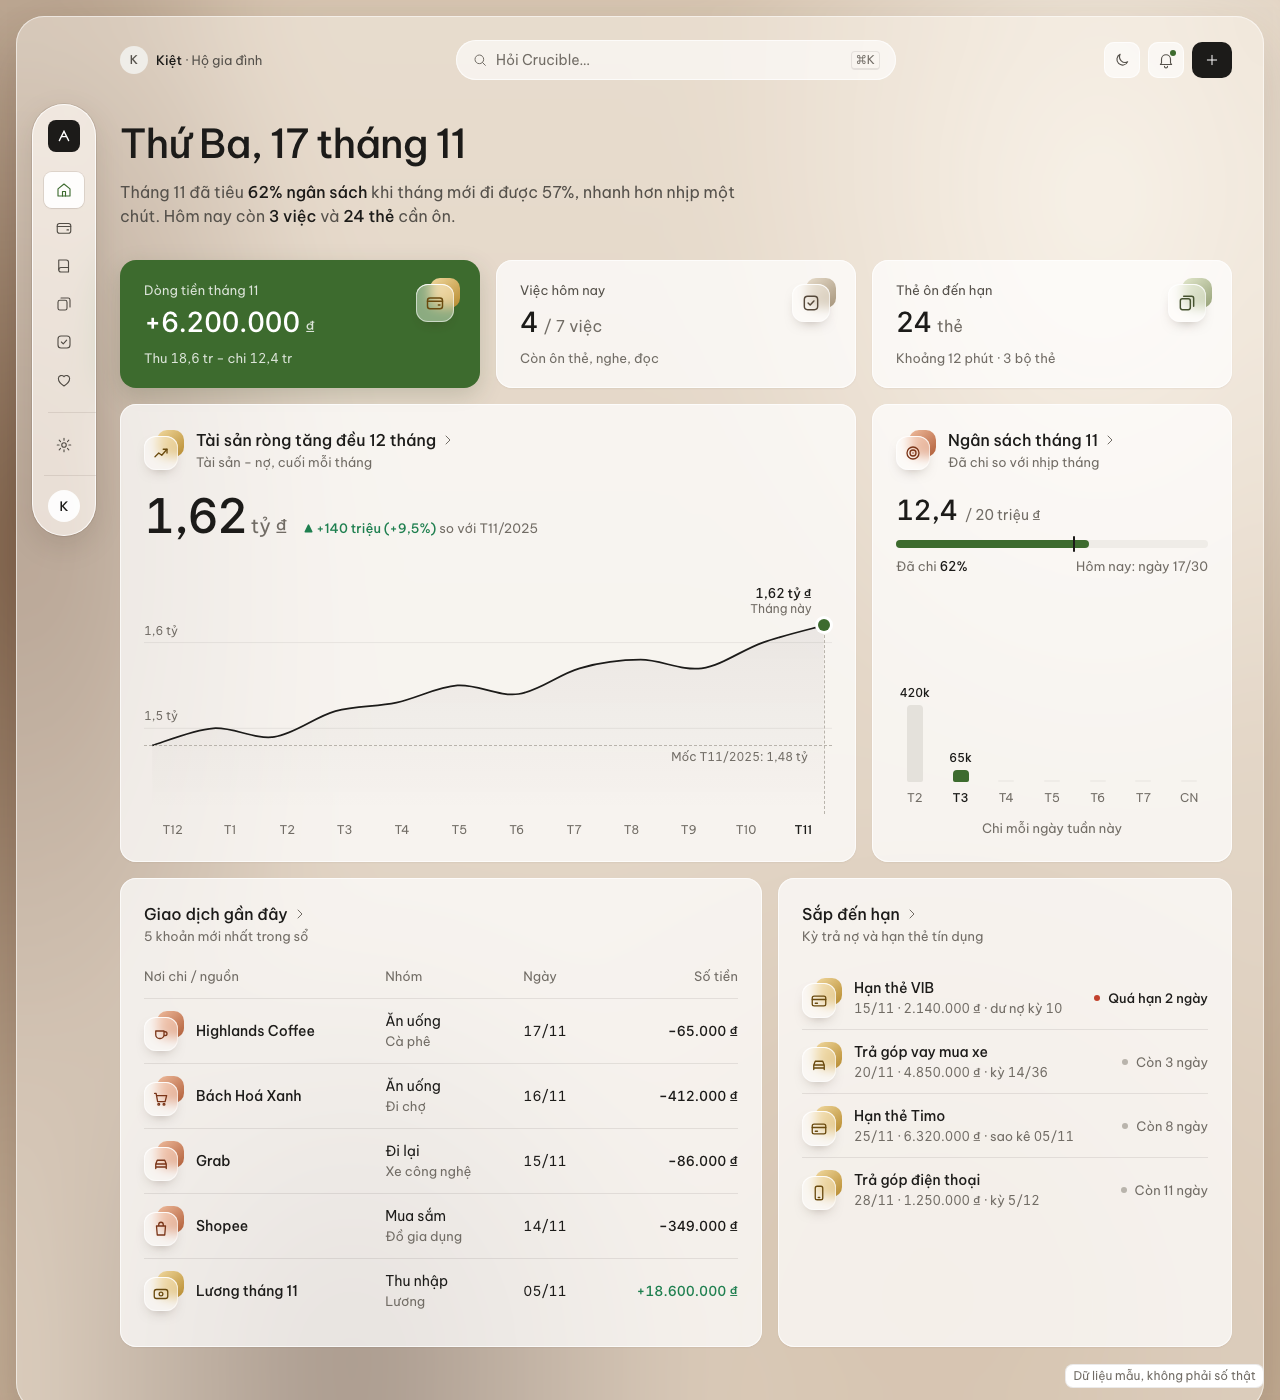
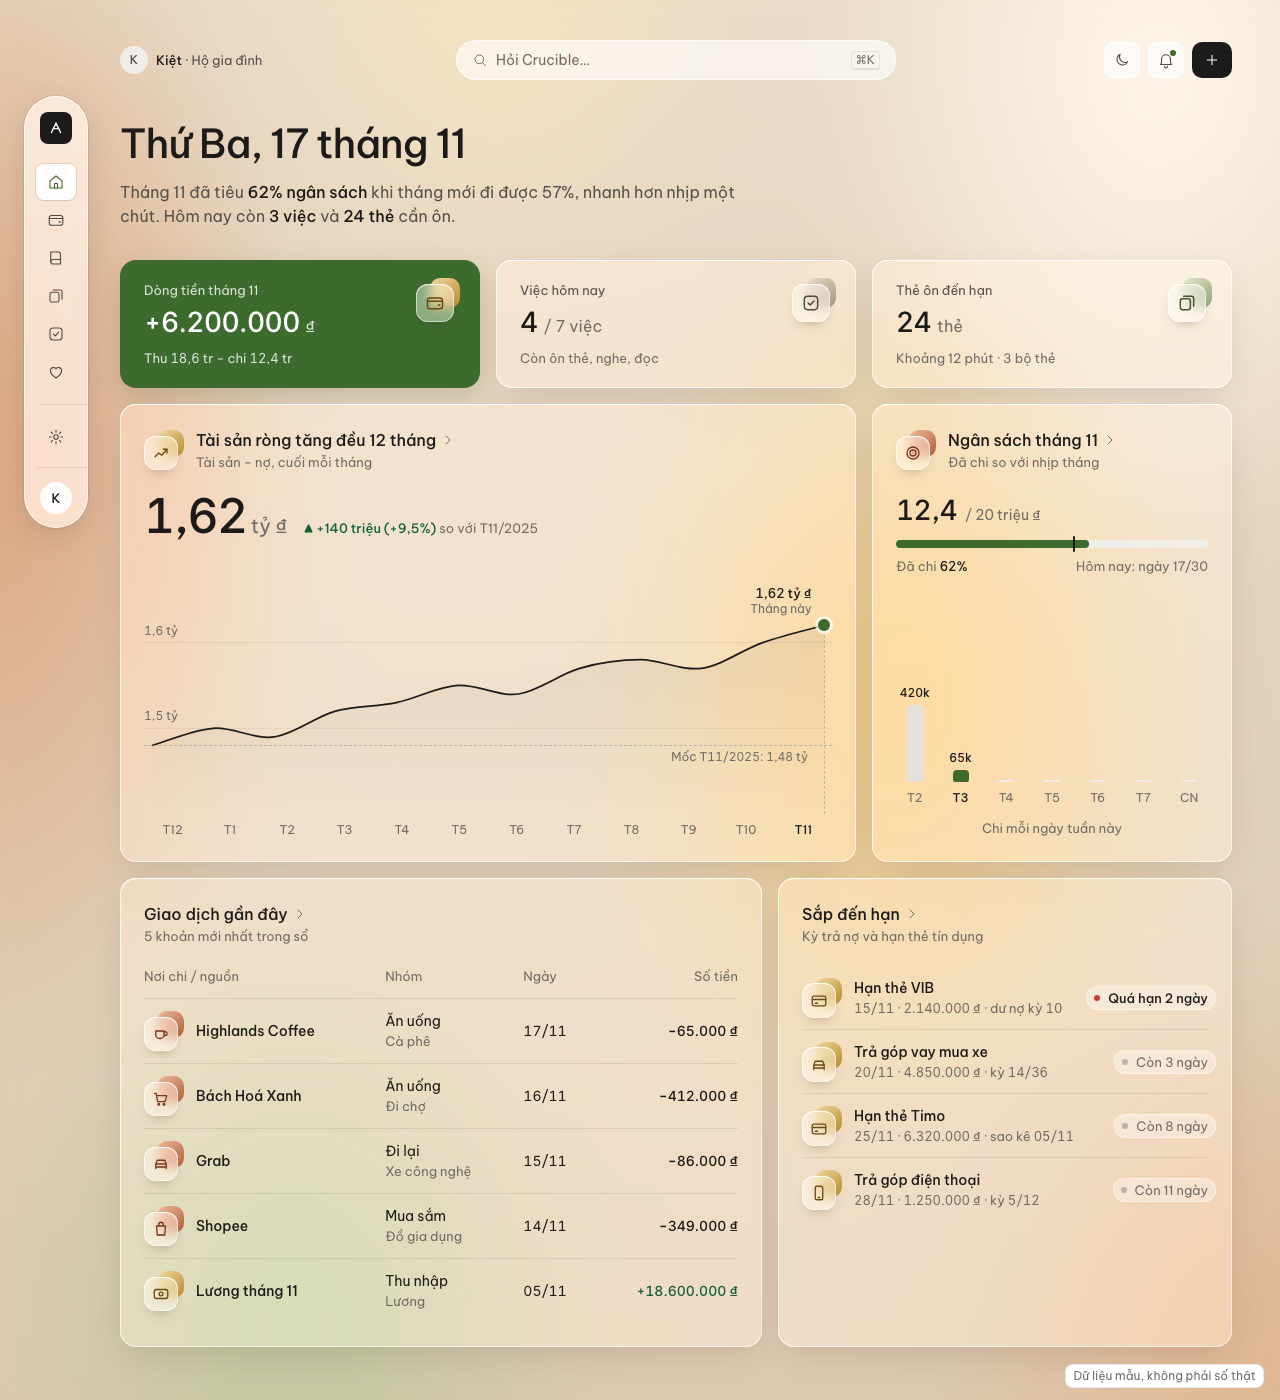
Demo giao diện sạch: bỏ cửa sổ kính bao ngoài, thẻ thành kính trong một lớp (trắng 35%, blur ở ::before), khối con là tint phẳng, nền thêm quầng đất/mật ong/rêu (dữ liệu mẫu)

diff --git a/1991-new-design/demo/clean/demo.html b/1991-new-design/demo/clean/demo.html
@@ -91,7 +91,7 @@ svg{display:block}
 
 :root{--main-l:100px}
 body.pinned{--main-l:284px}
-.main{padding:24px 32px 64px var(--main-l);min-width:0;max-width:1600px}
+.main{padding:40px 48px 64px var(--main-l);min-width:0;max-width:1600px}
 /* Thanh trên: ngữ cảnh trái · ô hỏi giữa · nút tròn phải */
 .top{display:grid;grid-template-columns:1fr minmax(280px,440px) 1fr;align-items:center;gap:16px;height:40px;margin-bottom:40px}
 .ctx{display:flex;align-items:center;gap:8px;font-size:13px;color:var(--ink2);white-space:nowrap}
@@ -300,41 +300,72 @@ td .s{color:var(--muted);font-size:13px}
 
 
 /* =====================================================================
-   NỀN KÍNH (mặc định duy nhất): cả ứng dụng là MỘT cửa sổ kính mờ trên gradient ấm trung tính.
-   backdrop-filter chỉ ở ::before (cửa sổ, rail, dải tab). Thẻ là kính sáng ĐỤC,
-   không tự làm mờ — đủ để chữ ≥ 4.5:1 cả khi phông sáng nhất phía sau.
+   NỀN KÍNH, MỘT LỚP: không còn cửa sổ bao ngoài. Gradient ấm trải toàn màn;
+   sidebar, thanh trên, dải tab và thẻ đều nằm THẲNG trên nền. Mỗi thẻ là một
+   tấm kính trong (trắng --card-a, làm mờ ở ::before). Khối con bên trong thẻ
+   (ô mini, viên trạng thái, chip, hàng) chỉ là tint trắng phẳng, KHÔNG blur.
+   Nền cần quầng đất / mật ong / rêu để thấy được độ trong.
    ===================================================================== */
-html{--rail-x:32px;--rail-y:104px;--muted:#635E57}
-html body{--main-l:104px}
-html body.pinned{--main-l:288px}
-html,html body{background:#CDBBA6}
+html{--rail-x:24px;--rail-y:96px;--muted:#5A554E;--card-a:.35;--card-fill:rgba(255,255,255,var(--card-a));--tint:rgba(255,255,255,.34);
+  --bar:rgba(70,50,30,.20); --bar2:rgba(70,50,30,.11); --dash:#85796C}
+html body{--main-l:120px}
+html body.pinned{--main-l:304px}
+html,html body{background:#DCC9B1}
 /* Chỗ đặt ảnh nội thất thật (chủ dự án cung cấp): .scene{background:url(/scene/noi-that.jpg) center/cover}
-   Tạm dựng bằng gradient ấm trung tính, làm mờ — không tím, không xanh. */
-html .scene{display:block;position:fixed;inset:-80px;z-index:0;filter:blur(36px);
+   Tạm dựng bằng gradient ấm làm mờ: đất nung, mật ong, rêu nhạt — không phong cảnh, không tím/xanh dương. */
+html .scene{display:block;position:fixed;inset:-80px;z-index:0;filter:blur(40px);
   background:
-   radial-gradient(40% 55% at 82% 18%,#F6EEE3 0%,transparent 70%),
-   radial-gradient(30% 70% at 8% 40%,#7A5C45 0%,transparent 72%),
-   radial-gradient(35% 40% at 30% 92%,#5E4636 0%,transparent 70%),
-   radial-gradient(45% 45% at 70% 88%,#B4977A 0%,transparent 70%),
-   linear-gradient(180deg,#D8C7B3,#C4AE96)}
-html .win{position:relative;z-index:1;margin:16px;min-height:calc(100vh - 32px);border-radius:28px}
-html .win::before{content:"";position:absolute;inset:0;border-radius:inherit;z-index:-1;
-  background:rgba(250,246,240,.46);-webkit-backdrop-filter:blur(28px) saturate(1.05);backdrop-filter:blur(28px) saturate(1.05);
-  box-shadow:inset 0 0 0 1px rgba(255,255,255,.55),0 24px 64px rgba(60,40,25,.18)}
-html .card{background:rgba(255,255,255,.72);box-shadow:inset 0 0 0 1px rgba(255,255,255,.7),0 1px 2px rgba(60,40,25,.06)}
-html a.card:hover{background:rgba(255,255,255,.84)}
+   radial-gradient(34% 44% at 86% 10%,#FFF7EA 0%,transparent 70%),
+   radial-gradient(30% 42% at 68% 50%,#F0C987 0%,transparent 70%),
+   radial-gradient(32% 55% at 4% 34%,#DBA27C 0%,transparent 72%),
+   radial-gradient(30% 36% at 26% 90%,#BEC79F 0%,transparent 70%),
+   radial-gradient(34% 36% at 94% 92%,#E0B591 0%,transparent 70%),
+   radial-gradient(26% 30% at 40% 4%,#F5E2BF 0%,transparent 70%),
+   linear-gradient(180deg,#EADCC8,#DCC8AE)}
+html .win{position:relative;z-index:1;min-height:100vh}
+/* Thẻ = kính trong, một lớp. ::before giữ blur + viền sáng + bóng mềm. */
+html .card{background:transparent;box-shadow:none;isolation:isolate}
+html .card::before{content:"";position:absolute;inset:0;border-radius:inherit;z-index:-1;pointer-events:none;
+  background:var(--card-fill);-webkit-backdrop-filter:blur(22px) saturate(1.45);backdrop-filter:blur(22px) saturate(1.45);
+  box-shadow:inset 0 0 0 1px rgba(255,255,255,.7),inset 0 1px 0 rgba(255,255,255,.85),0 12px 36px -8px rgba(60,40,25,.16);
+  transition:background-color 200ms var(--ease)}
+html a.card:hover{background:transparent;box-shadow:none}
+html a.card:hover::before{background:rgba(255,255,255,calc(var(--card-a) + .1))}
 html .search,html .round:not(.btn){background:rgba(255,255,255,.62);box-shadow:inset 0 0 0 1px rgba(255,255,255,.7)}
+/* Khối con trong thẻ: tint phẳng */
+html .mini>div{background:var(--tint);box-shadow:inset 0 0 0 1px rgba(255,255,255,.45);border-radius:12px;padding:12px 16px;flex:1 1 140px}
+html .mini{gap:12px}
+html{--good-t:#14603A;--bad-t:#A32F1D;--warn-t:#7F4A04}
+html[data-theme="dark"]{--good-t:var(--good);--bad-t:#F79A85;--warn-t:var(--warn)}
+html .chg .good,html .amt.pos{color:var(--good-t)}
+html .chg .bad{color:var(--bad-t)}
+html .stx{background:var(--tint);box-shadow:inset 0 0 0 1px rgba(255,255,255,.45);border-radius:999px;padding:2px 8px;margin-right:-8px}
+html tbody tr:hover td{background:var(--tint)}
+html .area .pt{box-shadow:0 0 0 3px rgba(255,255,255,.7)}
 /* Khoảnh khắc duy nhất: một thẻ đặc màu nhấn */
 html .card.moment{background:var(--acc);box-shadow:0 8px 24px rgba(40,60,30,.18)}
+html .card.moment::before{display:none}
 html .card.moment .l,html .card.moment .n,html .card.moment .u{color:rgba(255,255,255,.82)}
 html .card.moment .v{color:#FFFFFF}
 html[data-theme="dark"],html[data-theme="dark"] body{background:#2A221C}
-html[data-theme="dark"]{--muted:#9A948A}
-html[data-theme="dark"] .scene{opacity:.45}
-html[data-theme="dark"] .win::before{background:rgba(22,20,18,.62);box-shadow:inset 0 0 0 1px rgba(255,255,255,.08)}
-html[data-theme="dark"] .card{background:rgba(30,28,25,.78);box-shadow:inset 0 0 0 1px rgba(255,255,255,.07)}
+html[data-theme="dark"]{--muted:#A9A398;--card-a:.07;--card-fill:rgba(255,255,255,var(--card-a));--tint:rgba(255,255,255,.07);
+  --bar:rgba(255,255,255,.20); --bar2:rgba(255,255,255,.10); --dash:#8C857A}
+html[data-theme="dark"] .scene{opacity:1;background:
+   radial-gradient(34% 44% at 86% 10%,#3A2D23 0%,transparent 70%),
+   radial-gradient(30% 42% at 68% 50%,#3A2D18 0%,transparent 70%),
+   radial-gradient(32% 55% at 4% 34%,#3A261D 0%,transparent 72%),
+   radial-gradient(30% 36% at 26% 90%,#2A3323 0%,transparent 70%),
+   radial-gradient(34% 36% at 94% 92%,#38271D 0%,transparent 70%),
+   linear-gradient(180deg,#1E1814,#17120F)}
+html[data-theme="dark"]{--ink2:#C6C0B6;--muted:#B7B1A7;--glass-muted:#C6C0B6}
+html[data-theme="dark"] .card::before{box-shadow:inset 0 0 0 1px rgba(255,255,255,.13),inset 0 1px 0 rgba(255,255,255,.16),0 12px 36px -8px rgba(0,0,0,.45)}
+html[data-theme="dark"] a.card:hover::before{background:rgba(255,255,255,.11)}
+html[data-theme="dark"] .mini>div,html[data-theme="dark"] .stx{box-shadow:inset 0 0 0 1px rgba(255,255,255,.08)}
+html[data-theme="dark"] .area .pt{box-shadow:0 0 0 3px rgba(40,34,28,.8)}
 html[data-theme="dark"] .search,html[data-theme="dark"] .round:not(.btn){background:rgba(30,28,25,.7);box-shadow:inset 0 0 0 1px rgba(255,255,255,.08)}
 html[data-theme="dark"] .card.moment{background:#2F5424}
+/* Chip/seg nằm TRONG thẻ: tint phẳng, không blur lần hai */
+html .card .chip::before,html .card .seg::before{-webkit-backdrop-filter:none;backdrop-filter:none;background:var(--tint)}
 
 /* =====================================================================
    TAB KÍNH: panel sidebar, rail, dải viên đáy, segmented, chip, thanh trên
@@ -354,7 +385,7 @@ html[data-theme="dark"]{
   --glass:rgba(34,31,28,.6); --glass-edge:rgba(255,255,255,.12); --glass-hair:rgba(0,0,0,.3);
   --glass-shadow:0 0 0 1px var(--glass-hair),0 10px 30px rgba(0,0,0,.3);
   --glass-on:rgba(255,255,255,.12); --glass-hover:rgba(255,255,255,.06);
-  --glass-muted:#B8B2A8;
+  --glass-muted:#C6C0B6;
 }
 /* Sidebar: kính là ::before của .sidewrap (anh em của .side), vì .side cần
    clip-path để thu thành rail mà clip-path ở tổ tiên thì tắt backdrop.
@@ -392,7 +423,6 @@ html[data-theme="dark"]{
 .mtop{display:none}
 @media (max-width:760px){
   .sidewrap{display:none}
-  html .win{margin:8px;border-radius:20px;overflow:hidden}
   /* Dải tab: cuộn ngang; tab chọn hiện chữ, tab khác chỉ icon; nút hành động thành ô vuông icon */
   .fbar{gap:8px;margin-bottom:20px}
   .ftabs{flex:1 1 auto}
@@ -405,6 +435,7 @@ html[data-theme="dark"]{
   .facts .btn .tl{display:none}
   .who>div{min-width:0}.who .p,.who .s{max-width:108px;overflow:hidden;text-overflow:ellipsis}
   .main,body.pinned .main{padding:20px 16px 48px}
+  .mtop{margin:0}
   .mtop{display:flex;flex-direction:column;gap:12px;background:transparent;padding:12px 16px;border-bottom:1px solid var(--glass-hair);position:sticky;top:0;z-index:4}
   .mtop::before{content:"";position:absolute;inset:0;z-index:-1;background:var(--glass);-webkit-backdrop-filter:var(--glass-blur);backdrop-filter:var(--glass-blur);box-shadow:inset 0 -1px 0 var(--glass-edge)}
   .mtop .r1{display:flex;align-items:center;gap:4px;height:40px}
